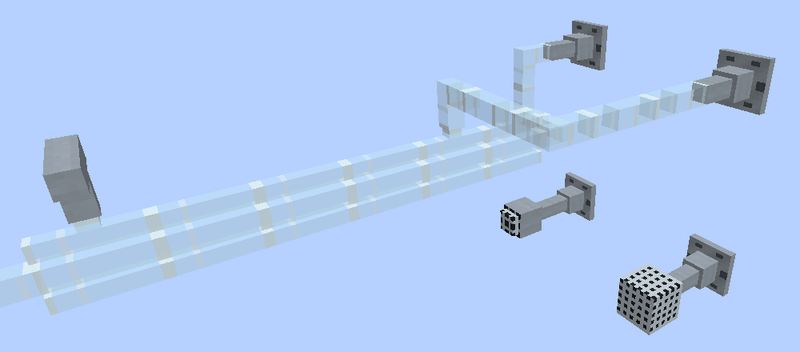
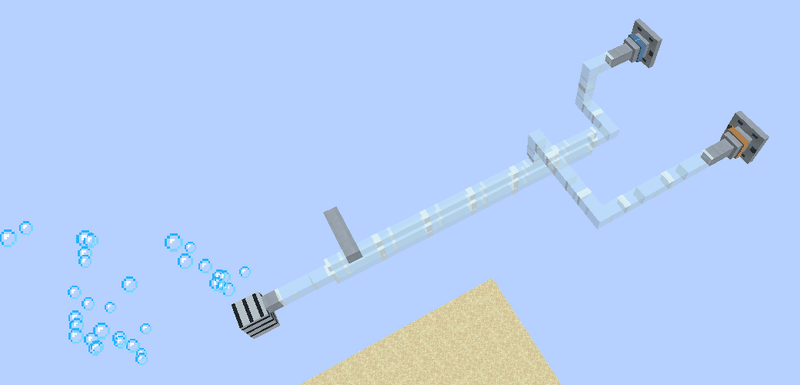
Handbook (en, de): M68 pictures of the one pipe system (example setups, filter lines, short circuit, wrench caps, controller and its screen, level sensor, drain, interior bundle); README / mod page picture of the filter lines

diff --git a/common/src/main/resources/assets/bettacraft/guides/bettacraft/guide/_de_de/equipment/water_system.md b/common/src/main/resources/assets/bettacraft/guides/bettacraft/guide/_de_de/equipment/water_system.md
@@ -69,6 +69,8 @@ Anschlüsse, sie braucht also nur zwei Rohre:
 
 Ein Filter nach Wahl hält das Wasser sauber: ein Innen- oder Außenfilter oder ein Multiblock-Filter.
 
+![Eine Steuerung mit dem Rücken am Aquarium: ein Rohr vom Vorratsbehälter zum Frischwasser-Einlass, ein Rohr vom Abwasser-Ausgang zu einem Abfluss, ein Niveausensor mit Lampe](../images/water_example_single.png)
+
 ## Beispiel: ein Filter, mehrere Aquarien
 
 1. Einen [Multiblock-Filter](multiblock_filter.md) bauen und von seinem **Einlass** und seinem **Auslass** je ein Rohr zu
@@ -81,6 +83,8 @@ Ein Filter nach Wahl hält das Wasser sauber: ein Innen- oder Außenfilter oder 
    Aquarien des Filters** und füllt die mit Niveausensor nach. Das Frischwasser geht über den Rücklauf des Filters hinein.
 
 Die Leitungen der Steuerung nicht an Einlass oder Auslass des Filters anschließen: das ist ein Kurzschluss.
+
+![Ein Multiblock-Filter für drei Aquarien, seine Zulauf- und Rücklaufleitung verzweigen zu jedem, und eine Steuerung an der Filterkammer](../images/water_example_filter.png)
 
 ## Beispiel: ein zentraler Technikraum
 
@@ -97,5 +101,7 @@ Alles steht in einem Raum, die Aquarien woanders im Haus:
 * **Leitungen getrennt halten:** wo sich zwei Leitungen berühren, die Seite mit der [Rohrzange](pipe_wrench.md) schließen;
   ein roter Ring zeigt, wo zwei Aufgaben aufeinandertreffen.
 * Jade, The One Probe und WTHIT zeigen Aufgabe und Durchfluss jeder Leitung, die du ansiehst.
+
+![Eine frei stehende Steuerung im Technikraum: Frischwasser von Vorratsbehälter und Umkehrosmose-Anlage, grüne und braune Leitungen zu zwei Aquarien, ein Abfluss](../images/water_example_room.png)
 
 <SubPages icons={true} />

diff --git a/common/src/main/resources/assets/bettacraft/guides/bettacraft/guide/equipment/water_system.md b/common/src/main/resources/assets/bettacraft/guides/bettacraft/guide/equipment/water_system.md
@@ -70,6 +70,8 @@ aquarium-side ports, so it needs only two pipes:
 
 A filter of your choice keeps the water clean: an internal or external filter, or a multiblock filter.
 
+![A controller with its back against an aquarium: a pipe from a reservoir to its fresh water inlet, a pipe to a drain from its waste water outlet, a level sensor with a lamp](../images/water_example_single.png)
+
 ## Example: one filter, several aquariums
 
 1. Build a [multiblock filter](multiblock_filter.md) and lay a pipe from its **inlet** and one from its **outlet** to every
@@ -82,6 +84,8 @@ A filter of your choice keeps the water clean: an internal or external filter, o
    tops off those with a level sensor. The fresh water goes in over the filter's return.
 
 Do not join the controller's lines to the filter's inlet or outlet: that is a short circuit.
+
+![One multiblock filter for three aquariums, its intake and return lines branching to each, and a controller against the filter chamber](../images/water_example_filter.png)
 
 ## Example: a central technical room
 
@@ -97,5 +101,7 @@ Everything stands in one room, the aquariums elsewhere in the house:
 * **Keep lines apart:** where two lines touch, close the side with the [pipe wrench](pipe_wrench.md); a red ring tells you
   where two roles met.
 * Jade, The One Probe and WTHIT show the role and the flow of every line you look at.
+
+![A free-standing controller in a technical room: fresh water from a reservoir and a reverse osmosis unit, green and brown lines to two aquariums, a drain](../images/water_example_room.png)
 
 <SubPages icons={true} />

diff --git a/common/src/main/resources/assets/bettacraft/guides/bettacraft/guide/_de_de/equipment/filter_lines.md b/common/src/main/resources/assets/bettacraft/guides/bettacraft/guide/_de_de/equipment/filter_lines.md
@@ -30,6 +30,8 @@ Ein Rohr verbindet sich mit jedem passenden Nachbarn, so **verzweigt** jede Leit
 erreicht. Ein Aquarium zählt für den Filter, wenn **beide Leitungen** an ihm andocken (direkt, an jeder Seite, oben oder
 unten), oder wenn Einlass und Auslass es direkt berühren.
 
+![Ein Multiblock-Filter mit blauer Zulauf- und oranger Rücklaufleitung, die zu drei Aquarien verzweigen](../images/filter_lines.png)
+
 ## Teilen
 
 Reinigung und Durchfluss des Filters werden **nach dem Wasservolumen** seiner Aquarien aufgeteilt: ein großer Filter reicht
@@ -60,6 +62,8 @@ sagt es in seinem Fenster und in Jade / The One Probe / WTHIT. Benachbarte Leitu
 auseinander. Dasselbe passiert, wenn eine Leitung einer [Wasserwechsel-Steuerung](water_change.md) den Einlass oder Auslass
 des Filters erreicht: die Leitungen der Steuerung stattdessen an eine **Kammer oder den Pumpenkopf** anschließen (Rohre
 verbinden sich dort mit jeder Fläche, ohne Aufgabe).
+
+![Ein Kurzschluss: eine Leitung verbindet Einlass und Auslass des Filters, ihre Ringe werden rot](../images/filter_short_circuit.png)
 
 Mit `features.pipes.filterLines = false` versorgt ein Filter wie früher ein Aquarium, ohne Schutzaufsätze, und seine Rohre
 sind normale Wasserrohre.

diff --git a/common/src/main/resources/assets/bettacraft/guides/bettacraft/guide/equipment/filter_lines.md b/common/src/main/resources/assets/bettacraft/guides/bettacraft/guide/equipment/filter_lines.md
@@ -30,6 +30,8 @@ A pipe joins every neighbour that fits, so each line **branches by itself** to e
 for the filter when **both lines** dock on it (directly, on any side, the top or the bottom), or when the inlet and the
 outlet touch it directly.
 
+![A multiblock filter with a blue intake line and an orange return line branching to three aquariums](../images/filter_lines.png)
+
 ## Sharing
 
 The filter's cleaning and its flow are **shared by the water volume** of its aquariums: a big filter is enough for several
@@ -57,6 +59,8 @@ A line that reaches the inlet **and** the outlet is a **short circuit** (red rin
 screen and in Jade / The One Probe / WTHIT. Keep neighbouring lines apart with the [pipe wrench](pipe_wrench.md). The same
 happens when a line of a [water change controller](water_change.md) reaches the filter's inlet or outlet: join the
 controller's lines to a **chamber or the pump head** instead (pipes join them on every face, without a role).
+
+![A short circuit: one line joins the filter's inlet and outlet, its rings turn red](../images/filter_short_circuit.png)
 
 With `features.pipes.filterLines = false` a filter serves one aquarium as before, without guards, and its pipes are plain
 water pipes.

diff --git a/common/src/main/resources/assets/bettacraft/guides/bettacraft/guide/_de_de/equipment/water_change.md b/common/src/main/resources/assets/bettacraft/guides/bettacraft/guide/_de_de/equipment/water_change.md
@@ -26,6 +26,8 @@ Rechtsklicken:
 * die Aquarien, die sie versorgt (und wie viele davon über einen Multiblock-Filter), die Niveausensoren, die sie liest, ihre
   vier Anschlüsse, ihre Speicher und Warnungen.
 
+![Das Fenster der Steuerung: Abstand und Anteil, ihre Aquarien und Niveausensoren, alle vier Anschlüsse verbunden](../images/water_change_screen.png)
+
 ![Die Steuerung mit einem Vorratsbehälter am Frischwasser-Einlass und einem Abfluss am Abwasser-Ausgang](../images/water_change_ports.png)
 
 ## Die vier Anschlüsse
@@ -46,6 +48,8 @@ auch den Einlass oder Auslass eines Filters erreicht, ist ein **Kurzschluss**: d
 **Frischwasser kommt immer durch ein Rohr.** Was nur neben der Steuerung steht (ein Vorratsbehälter, eine Wasserquelle, der
 Tank einer anderen Mod), gibt ihr nichts. Pumpen und Rohre anderer Mods dürfen Wasser in den Frischwasser-Einlass drücken,
 und Rohre anderer Mods dürfen aus dem Abwasser-Ausgang ziehen.
+
+![Eine frei stehende Steuerung mit allen vier Anschlüssen: Frischwasser rein von links, raus nach hinten, Abwasser rein von oben, raus nach rechts](../images/water_change_room.png)
 
 ## Welche Aquarien sie versorgt
 

diff --git a/common/src/main/resources/assets/bettacraft/guides/bettacraft/guide/equipment/water_change.md b/common/src/main/resources/assets/bettacraft/guides/bettacraft/guide/equipment/water_change.md
@@ -26,6 +26,8 @@ it:
 * the aquariums it serves (and how many through a multiblock filter), the level sensors it reads, its four ports, its stores
   and warnings.
 
+![The controller screen: interval and share, its aquariums and level sensors, all four ports joined](../images/water_change_screen.png)
+
 ![The controller with a reservoir on its fresh water inlet and a drain on its waste water outlet](../images/water_change_ports.png)
 
 ## The four ports
@@ -46,6 +48,8 @@ The front and the bottom have no port. Each line gets its role from its port and
 **Fresh water always comes through a pipe.** What merely stands next to the controller (a reservoir, a water source, another
 mod's tank) gives it nothing. Pumps and other mods' pipes may push water into the fresh water inlet, and other mods' pipes may
 pull from the waste water outlet.
+
+![A free-standing controller with all four ports in use: fresh water in from the left, out at the back, waste water in from the top, out on the right](../images/water_change_room.png)
 
 ## Which aquariums it serves
 

diff --git a/FEATURES.md b/FEATURES.md
@@ -303,7 +303,7 @@ feature is on every Minecraft version and loader unless the README's "What is mi
   a drive adapter that turns with the trip or FE batteries of the contraption); on Create Aeronautics airships the animals
   stay real and everything runs as on the ground. The water sloshes in curves and when a contraption stops.
 
-![One multiblock filter for two tanks with its pipe lines, a pipe bundle and pipe covers](docs/images/bettacraft-filter-lines.jpg)
+![One multiblock filter for three tanks: its blue intake line and orange return line branch to every tank](docs/images/bettacraft-filter-lines.jpg)
 
 ![A planted tank with two bettas on a Create minecart contraption: the water sloshes in the curve](docs/images/bettacraft-create-cart.jpg)
 

diff --git a/README.md b/README.md
@@ -46,7 +46,7 @@ run filters, lights, CO2 and reef dosing, and breed new colours with real Mendel
     <td><img src="docs/images/bettacraft-monitors.jpg" alt="A monitor wall with a dashboard between a betta tank and a reef tank"></td>
   </tr>
   <tr>
-    <td><img src="docs/images/bettacraft-filter-lines.jpg" alt="One multiblock filter for two tanks with its pipe lines, a pipe bundle and pipe covers"></td>
+    <td><img src="docs/images/bettacraft-filter-lines.jpg" alt="One multiblock filter for three tanks: its blue intake line and orange return line branch to every tank"></td>
     <td><img src="docs/images/bettacraft-aquarium-room-shaders.jpg" alt="The aquarium room with Complementary Reimagined shaders"></td>
   </tr>
 </table>

diff --git a/docs/description.md b/docs/description.md
@@ -189,7 +189,7 @@ All features in detail: [FEATURES.md on GitHub](../FEATURES.md).
   **crank** at its cabinet or filter (about 20 seconds for a day of a medium tank on EASY), or with Create's **drive
   adapter** on rotation with real stress.
 
-![One multiblock filter for two tanks: its pipe lines, a pipe bundle with four lines and pipe covers](images/bettacraft-filter-lines.jpg)
+![One multiblock filter for three tanks: its blue intake line and orange return line branch to every tank](images/bettacraft-filter-lines.jpg)
 
 ![A monitor wall between a betta tank and a reef tank: status, a temperature graph, a salinity alarm, animals, devices and the logbook](images/bettacraft-monitors.jpg)
 

diff --git a/common/src/main/resources/assets/bettacraft/guides/bettacraft/guide/_de_de/equipment/level_sensor.md b/common/src/main/resources/assets/bettacraft/guides/bettacraft/guide/_de_de/equipment/level_sensor.md
@@ -25,6 +25,8 @@ Offene Aquarien verlieren Wasser durch Verdunstung (eine [Abdeckung](tank_lid.md
   für eigene Schaltungen oder die Pumpen anderer Mods. Sonst ist er still.
 * Er **misst nur**: kein Rohr verbindet sich mit ihm, er bewegt kein Wasser und braucht keinen Strom.
 
+![Ein Niveausensor an einem Aquarium, dem Wasser fehlt: sein Redstone-Signal lässt eine Lampe leuchten](../images/level_sensor_lamp.png)
+
 ## Nachfüllen
 
 Eine [Wasserwechsel-Steuerung](water_change.md), die dieses Aquarium befüllt (durch Berührung, über ihre

diff --git a/common/src/main/resources/assets/bettacraft/guides/bettacraft/guide/_de_de/equipment/pipe_wrench.md b/common/src/main/resources/assets/bettacraft/guides/bettacraft/guide/_de_de/equipment/pipe_wrench.md
@@ -39,6 +39,8 @@ Wofür sie da ist:
 * **Vorbeiführen:** eine normale Wasserleitung, die an einer Filterkammer, einem Gerät oder einem Aquarium vorbeiläuft,
   verbindet sich damit; diese Seite schließen, und die Leitung läuft vorbei.
 
+![Eine Zulauf- und eine Rücklaufleitung übereinander: die Kappen der Zange halten sie getrennt](../images/pipe_wrench_caps.png)
+
 Mit `features.pipes.pipeWrench = false` tut die Zange nichts; geschlossene Seiten bleiben zu.
 
 ## Bezug

diff --git a/common/src/main/resources/assets/bettacraft/guides/bettacraft/guide/equipment/level_sensor.md b/common/src/main/resources/assets/bettacraft/guides/bettacraft/guide/equipment/level_sensor.md
@@ -24,6 +24,8 @@ it, like a float switch:
   for your own circuits or the pumps of other mods. Otherwise it is quiet.
 * It **only measures**: no pipe joins it, it moves no water and needs no power.
 
+![A level sensor at an aquarium that lacks water: its redstone signal lights a lamp](../images/level_sensor_lamp.png)
+
 ## Top-off
 
 A [water change controller](water_change.md) that fills this aquarium (touching it, through its fresh water line or through
